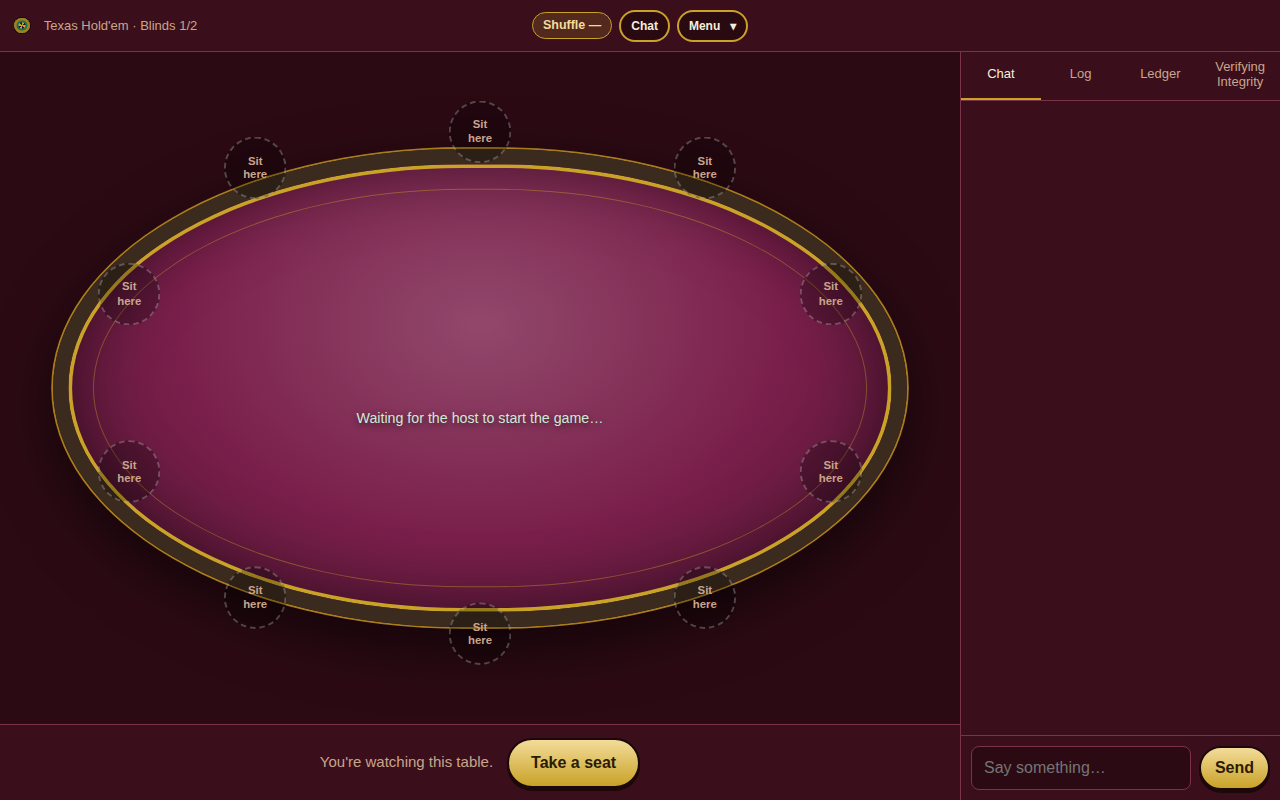
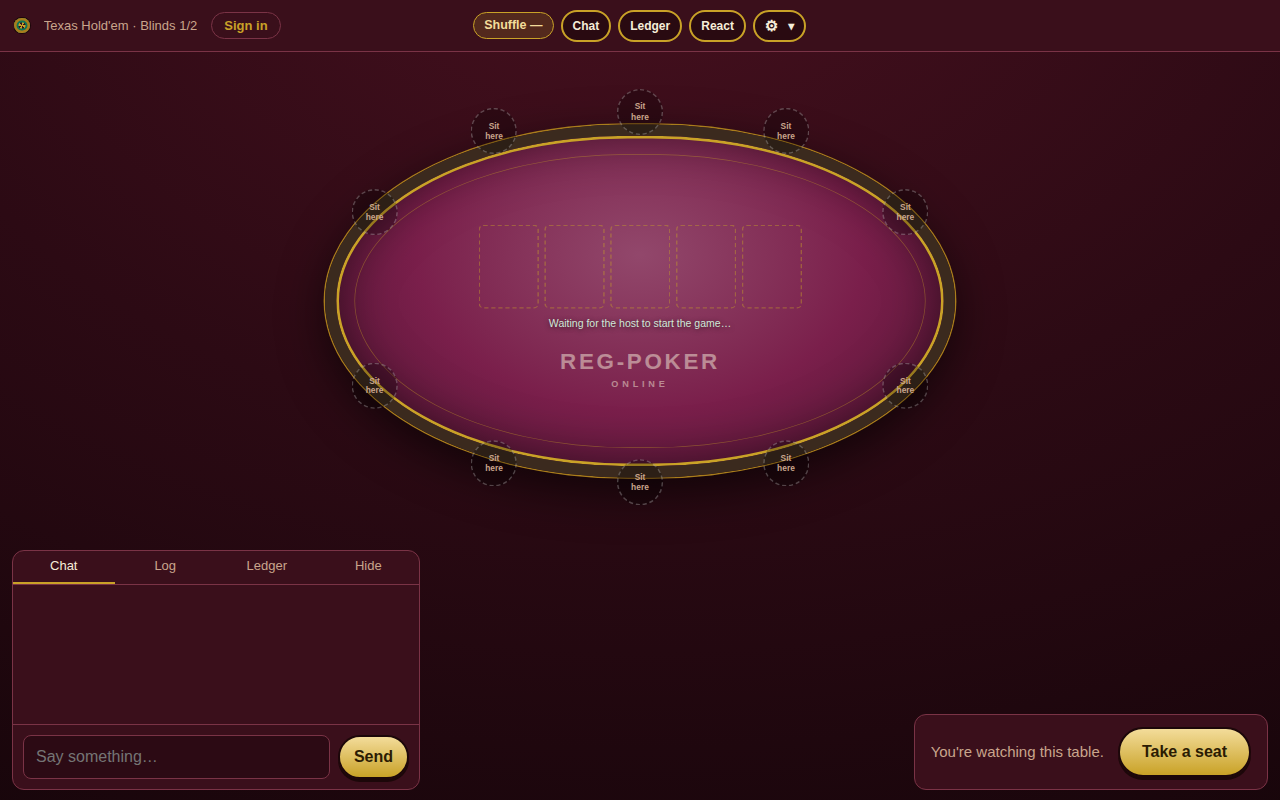
Verifying integrity moves into Settings, and a Naperville Central Wrestling Club table
- Verifying integrity is no longer a chat tab: it's a pop-up opened from
  Settings > Table > Verify integrity (or the shuffle chip in the bar),
  closed by its Close button, the backdrop, or Escape. Same readout,
  same client-seed control — the chat dock is down to Chat and Log
- New skin, NC Wrestling Club: the wrestling-room look from the club's
  own colours — Redhawk red mat, white boundary ring, black rail, red
  crest type, "NAPERVILLE / WRESTLING CLUB" on the felt

Claude-Session: https://claude.ai/code/session_01CSfMgDN2tedqo5rqFQTFw7

diff --git a/test/smoke-ui.js b/test/smoke-ui.js
@@ -430,9 +430,19 @@ try {
   const fairFloat = await anna.textContent('#fair-chip');
   await check('the fair chip shows a hashed float for the hand', /Shuffle\s*0\.\d{4}/.test(fairFloat));
 
+  // Verifying integrity is a pop-up now, opened from the chip or from
+  // Settings > Table > Verify integrity.
   await anna.click('#fair-chip');
-  await anna.waitForSelector('#tab-fair:not(.hidden)');
-  await check('the Fair tab shows the client seed', (await anna.textContent('#fair-panel')).length > 0);
+  await anna.waitForSelector('#fair-modal:not(.hidden)');
+  await check('the shuffle chip opens the integrity pop-up',
+    (await anna.textContent('#fair-panel')).length > 0);
+  await anna.click('#fair-close');
+  await check('the integrity pop-up closes',
+    await anna.locator('#fair-modal').evaluate((el) => el.classList.contains('hidden')));
+  await openMenu(anna);
+  await anna.click('#open-fair');
+  await anna.waitForSelector('#fair-modal:not(.hidden)');
+  await check('Settings opens Verify integrity too', true);
 
   await anna.fill('#fair-seed-input', 'smoke-seed-42');
   await anna.click('#fair-seed-form button[type="submit"]');
@@ -440,6 +450,7 @@ try {
     document.getElementById('log-list')?.textContent.includes("set the table's client seed")
   );
   await check('a player can set the table client seed', true);
+  await anna.click('#fair-close');
 
   // The replay verifier re-checks the deck commitment in the browser and
   // confirms every shown card — while folded hands stay sealed.
@@ -659,7 +670,7 @@ try {
 
   // ---- per-player table skins: same room, three different looks ----
   const skinOptions = await anna.locator('#skin option').count();
-  await check('every table skin is offered', skinOptions === 6);
+  await check('every table skin is offered', skinOptions === 7);
   const geometry = async () => anna.evaluate(() => {
     const r = (sel) => [...document.querySelectorAll(sel)].map((e) => {
       const b = e.getBoundingClientRect();
@@ -705,7 +716,7 @@ try {
     }
     const root = document.documentElement;
     const before = root.dataset.skin;
-    const skins = ['velvet', 'tour', 'series', 'cwru', 'wabash', 'classic'];
+    const skins = ['velvet', 'tour', 'series', 'cwru', 'wabash', 'classic', 'redhawk'];
     const values = {};
     for (const skin of skins) {
       root.dataset.skin = skin;

diff --git a/public/game.html b/public/game.html
@@ -73,7 +73,7 @@
           <div class="menu-grid">
             <button id="copy-link" class="btn-ghost btn top-btn" title="Copy the invite link">Invite</button>
             <button id="open-log" class="btn-ghost btn top-btn" title="Every action this session, hand by hand">Game log</button>
-            <button id="open-fair" class="btn-ghost btn top-btn" title="Check the shuffle was honest">Verify shuffle</button>
+            <button id="open-fair" class="btn-ghost btn top-btn" title="Check the shuffle was honest — the provably-fair proof">Verify integrity</button>
           </div>
         </details>
 
@@ -176,7 +176,6 @@
         <button data-tab="log" class="tab">Log</button>
         <!-- The ledger is a pop-up, not a tab — this button just opens it. -->
         <button id="ledger-tab-btn" class="tab" title="Who bought in for what, who's up, who's down">Ledger</button>
-        <button data-tab="fair" class="tab">Verifying Integrity</button>
         <!-- Desktop: folds the dock down to this tab strip, giving the felt
              the room back. Any tab click opens it again. -->
         <button id="dock-toggle" class="tab dock-toggle" title="Fold the chat away — the table gets the room">Hide</button>
@@ -192,9 +191,6 @@
       <div id="tab-log" class="tab-body hidden">
         <div id="log-list" class="scroll-list"></div>
       </div>
-      <div id="tab-fair" class="tab-body hidden">
-        <div id="fair-panel" class="scroll-list"></div>
-      </div>
     </aside>
 
     <footer id="action-bar"></footer>
@@ -208,6 +204,18 @@
         <button class="btn btn-ghost modal-x" id="ledger-close" title="Close the ledger">Close</button>
       </div>
       <div id="ledger-table"></div>
+    </div>
+  </div>
+
+  <!-- Verifying integrity: the provably-fair readout, from the settings
+       menu or the shuffle chip. Closable, like the ledger. -->
+  <div class="modal-backdrop hidden" id="fair-modal">
+    <div class="modal ledger-modal">
+      <div class="modal-head">
+        <h2>Verifying integrity</h2>
+        <button class="btn btn-ghost modal-x" id="fair-close" title="Close">Close</button>
+      </div>
+      <div id="fair-panel"></div>
     </div>
   </div>
 

diff --git a/public/js/panels.js b/public/js/panels.js
@@ -25,7 +25,11 @@ export function initPanels(client) {
   });
 
   // The header fairness chip opens the Fair tab.
-  document.getElementById('fair-chip')?.addEventListener('click', () => openPanel('fair'));
+  document.getElementById('fair-chip')?.addEventListener('click', openFair);
+  document.getElementById('fair-close')?.addEventListener('click', closeFair);
+  document.getElementById('fair-modal')?.addEventListener('click', (e) => {
+    if (e.target.id === 'fair-modal') closeFair();
+  });
 
   // The ledger pop-up: a button beside the chat tabs, Close, backdrop, Escape.
   document.getElementById('ledger-tab-btn')?.addEventListener('click', openLedger);
@@ -34,7 +38,9 @@ export function initPanels(client) {
     if (e.target.id === 'ledger-modal') closeLedger();
   });
   document.addEventListener('keydown', (e) => {
-    if (e.key === 'Escape') closeLedger();
+    if (e.key !== 'Escape') return;
+    closeLedger();
+    closeFair();
   });
 
   // The Chat button is exactly that: it opens the panel ON the chat tab.
@@ -248,6 +254,16 @@ export function openPanel(tabName) {
 
 // The ledger is a pop-up: openable from the top bar or beside the chat tabs,
 // closable from its Close button, the backdrop, or Escape.
+// The provably-fair readout is a pop-up too: opened from Settings > Table >
+// Verify integrity, or from the shuffle chip in the bar.
+export function openFair() {
+  document.getElementById('fair-modal')?.classList.remove('hidden');
+}
+
+export function closeFair() {
+  document.getElementById('fair-modal')?.classList.add('hidden');
+}
+
 export function openLedger() {
   document.getElementById('ledger-modal')?.classList.remove('hidden');
 }

diff --git a/public/css/base.css b/public/css/base.css
@@ -624,3 +624,54 @@ label {
   margin-top: 2px;
   font-size: 14px;
 }
+
+/* ---- Naperville Central Wrestling Club ----
+   The wrestling-room look: Redhawk red mat inside a black rail, white
+   boundary lines, and the club's crest on the felt. */
+:root[data-skin='redhawk'] {
+  --bg: #0b0809;
+  --bg-raised: #2a1517;
+  --bg-panel: #16100f;
+  --border: #4a2422;
+  --text: #f6f1ef;
+  --text-dim: #bda6a2;
+  --accent: #e03127;
+  --accent-lite: #ff8b80;
+  --accent-dark: #8f1a13;
+  --blue: #33272a;
+  --green: #1c7350;
+  --green-dark: #114a33;
+  --red: #b3211a;
+  --felt: #b7241c;
+  --felt-dark: #7b120d;
+  --felt-hi: #d8352a;
+  --rail: #121011;
+  --ink: #070505;
+  --btn-ink: #fff6f4;
+  --ghost-bg: rgba(10, 6, 6, 0.6);
+  --ghost-hover: rgba(224, 49, 39, 0.18);
+  --green-lite: #24895f;
+  --red-lite: #d02a20;
+  --red-deep: #7d130e;
+  --rail-ring: #f2f2f2;
+  --rail-edge: #2c2426;
+  --felt-line: rgba(255, 255, 255, 0.5);
+  --glow: rgba(224, 49, 39, .15);
+  --pulse: 224, 49, 39;
+  --card-face: #fbf8f7;
+  --card-ink: #17100f;
+  --plate-a: rgba(30, 17, 18, .96);
+  --plate-b: rgba(14, 8, 9, .96);
+  --chip-ink: #ffe4e0;
+  --card-red: #c31d16;
+  --card-back-a: #3a1c1d;
+  --card-back-b: #1d1011;
+  --money: #ffffff;
+  --wm-a: 'NAPERVILLE';
+  --wm-b: 'WRESTLING CLUB';
+  --wm-ink: rgba(255, 255, 255, 0.42);
+  --room-bg: radial-gradient(120% 130% at 50% -10%, #35181a 0%, #1b0d0e 45%, #090506 100%);
+  --scape-a: #241012;
+  --scape-b: #3a1a1a;
+  --scape-o: 0.45;
+}

diff --git a/public/js/game.js b/public/js/game.js
@@ -10,7 +10,7 @@ import {
 } from '/js/pwa.js';
 import { renderAll, startTimerLoop, fitTableStage } from '/js/render.js';
 import { initActionBar } from '/js/actionBar.js';
-import { initPanels, onChatMessage, notifyStateForPanels, openPanel, openLedger } from '/js/panels.js';
+import { initPanels, onChatMessage, notifyStateForPanels, openPanel, openLedger, openFair } from '/js/panels.js';
 import {
   initWebrtc, joinAV, leaveAV, toggleCamera, toggleMic, toggleDeafen,
   syncSeats as syncAvSeats, avState, setOnChange,
@@ -419,7 +419,7 @@ document.addEventListener('keydown', (e) => {
 // open the side panel already turned to the right tab.
 document.getElementById('ledger-btn')?.addEventListener('click', openLedger);
 document.getElementById('open-log')?.addEventListener('click', () => openPanel('log'));
-document.getElementById('open-fair')?.addEventListener('click', () => openPanel('fair'));
+document.getElementById('open-fair')?.addEventListener('click', openFair);
 
 // Sit out / I'm back from the Seat sub-menu. The label tracks you.sittingOut
 // (renderAll repaints it on every state), so one button serves both ways.

diff --git a/shared/constants.js b/shared/constants.js
@@ -300,6 +300,7 @@ export const SKINS = {
   cwru: { label: 'CWRU Spartans' },
   wabash: { label: 'Wabash Scarlet' },
   classic: { label: 'Classic Card Room' },
+  redhawk: { label: 'NC Wrestling Club' },
 };
 export const DEFAULT_SKIN = 'velvet';
 
